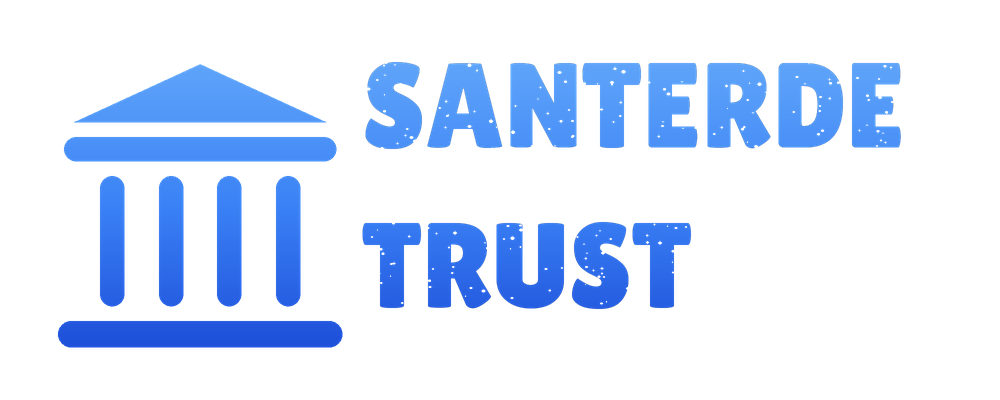
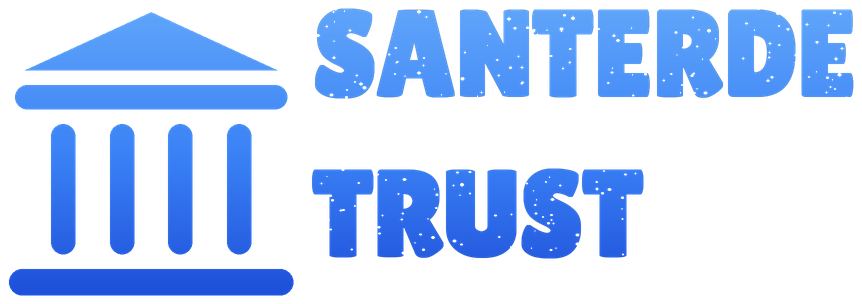
added latest changes

diff --git a/templates/base.html b/templates/base.html
@@ -520,7 +520,7 @@
           <!-- Logo -->
           <div class="flex items-center justify-center h-16 px-5 border-b" style="border-color:rgba(255,255,255,0.06); background:linear-gradient(135deg,rgba(59,130,246,0.06),transparent);">
             <a href="{% url 'dashboard' %}" class="flex items-center group">
-              <img src="{% static 'images/SanterdeTrust.png' %}?v=2" alt="Santerde Trust" class="h-12 w-auto object-contain transition-opacity duration-200 group-hover:opacity-80">
+              <img src="{% static 'images/SanterdeTrust.png' %}?v=3" alt="Santerde Trust" class="h-12 w-auto object-contain transition-opacity duration-200 group-hover:opacity-80">
             </a>
           </div>
 
@@ -654,7 +654,7 @@
           </button>
 
           <a href="{% url 'dashboard' %}" class="flex items-center">
-            <img src="{% static 'images/SanterdeTrust.png' %}?v=2" alt="Santerde Trust" class="h-10 w-auto object-contain">
+            <img src="{% static 'images/SanterdeTrust.png' %}?v=3" alt="Santerde Trust" class="h-11 w-auto object-contain">
           </a>
 
           <a href="{% url 'notification_list' %}" class="relative p-2 rounded-lg transition-all"
@@ -692,7 +692,7 @@
           <div class="flex items-center justify-between h-16 px-4"
                style="border-bottom:1px solid rgba(255,255,255,0.06);background:linear-gradient(135deg,rgba(59,130,246,0.06),transparent);">
             <a href="{% url 'dashboard' %}" class="flex items-center">
-              <img src="{% static 'images/SanterdeTrust.png' %}?v=2" alt="Santerde Trust" class="h-10 w-auto object-contain">
+              <img src="{% static 'images/SanterdeTrust.png' %}?v=3" alt="Santerde Trust" class="h-11 w-auto object-contain">
             </a>
             <button @click="sidebarOpen = false" class="p-1.5 rounded-lg transition-all" style="color:rgba(249,250,251,0.40);">
               <i class="fas fa-times text-lg"></i>

diff --git a/templates/landing/home.html b/templates/landing/home.html
@@ -373,7 +373,7 @@
 
           <!-- Logo -->
           <a href="/" class="flex items-center group transition-opacity hover:opacity-80">
-            <img src="{% static 'images/SanterdeTrust.png' %}?v=2" alt="Santerde Trust" class="h-11 w-auto object-contain">
+            <img src="{% static 'images/SanterdeTrust.png' %}?v=3" alt="Santerde Trust" class="h-12 lg:h-14 w-auto object-contain">
           </a>
 
           <!-- Desktop Nav Links -->
@@ -1277,7 +1277,7 @@
           <!-- Brand -->
           <div class="lg:col-span-2">
             <a href="/" class="flex items-center mb-6 group transition-opacity hover:opacity-80">
-              <img src="{% static 'images/SanterdeTrust.png' %}?v=2" alt="Santerde Trust" class="h-11 w-auto object-contain">
+              <img src="{% static 'images/SanterdeTrust.png' %}?v=3" alt="Santerde Trust" class="h-9 w-auto object-contain">
             </a>
             <p class="text-pearl/35 leading-relaxed max-w-sm mb-6">
               The all-in-one wealth platform for people who demand more. Manage, grow, and move your capital with total confidence.

diff --git a/templates/transactions/transaction_detail.html b/templates/transactions/transaction_detail.html
@@ -259,7 +259,7 @@
         <!-- Brand -->
         <div class="rp-hdr-brand">
             <div class="rp-logo-wrap">
-                <img src="{% static 'images/SanterdeTrust.png' %}?v=2" alt="Santerde Trust" class="rp-logo-img">
+                <img src="{% static 'images/SanterdeTrust.png' %}?v=3" alt="Santerde Trust" class="rp-logo-img">
                 <div class="rp-bank-sub">Private Banking &amp; Wealth Management</div>
             </div>
         </div>
@@ -456,7 +456,7 @@
         box-shadow: 0 0 0 2px rgba(255, 255, 255, 0.18), 0 4px 16px rgba(0,0,0,0.25);
     }
     .rp-logo-img {
-        height: 52px;
+        height: 40px;
         width: auto;
         display: block;
     }

diff --git a/templates/auth/login.html b/templates/auth/login.html
@@ -284,7 +284,7 @@
 
           <!-- Logo -->
           <a href="{% url 'landing_home' %}" class="flex items-center mb-10 group transition-opacity hover:opacity-80">
-            <img src="{% static 'images/SanterdeTrust.png' %}?v=2" alt="Santerde Trust" class="h-14 sm:h-16 w-auto object-contain">
+            <img src="{% static 'images/SanterdeTrust.png' %}?v=3" alt="Santerde Trust" class="h-11 sm:h-12 w-auto object-contain">
           </a>
 
           <!-- Heading -->

diff --git a/templates/auth/register.html b/templates/auth/register.html
@@ -272,7 +272,7 @@
 
         <!-- Logo -->
         <a href="{% url 'landing_home' %}" class="flex items-center mb-8 group transition-opacity hover:opacity-80">
-          <img src="{% static 'images/SanterdeTrust.png' %}?v=2" alt="Santerde Trust" class="h-14 sm:h-16 w-auto object-contain">
+          <img src="{% static 'images/SanterdeTrust.png' %}?v=3" alt="Santerde Trust" class="h-11 sm:h-12 w-auto object-contain">
         </a>
 
         <!-- Heading -->

diff --git a/templates/auth/verify_otp.html b/templates/auth/verify_otp.html
@@ -208,7 +208,7 @@
 
     <!-- Logo -->
     <a href="{% url 'landing_home' %}" class="flex items-center mb-8 group transition-opacity hover:opacity-80">
-      <img src="{% static 'images/SanterdeTrust.png' %}?v=2" alt="Santerde Trust" class="h-16 sm:h-20 w-auto object-contain">
+      <img src="{% static 'images/SanterdeTrust.png' %}?v=3" alt="Santerde Trust" class="h-12 sm:h-16 w-auto object-contain">
     </a>
 
     <!-- Card -->

diff --git a/app/email.py b/app/email.py
@@ -13,7 +13,7 @@ logger = logging.getLogger(__name__)
 
 resend.api_key = settings.RESEND_KEY
 
-LOGO_URL = f"{settings.SITE_URL}/static/images/SanterdeTrust.png?v=2"
+LOGO_URL = f"{settings.SITE_URL}/static/images/SanterdeTrust.png?v=3"
 
 
 def _email_shell(preheader, body_html):
@@ -39,7 +39,7 @@ def _email_shell(preheader, body_html):
           <!-- Logo header -->
           <tr>
             <td align="center" style="padding:28px 32px 20px 32px;border-bottom:1px solid #e4e4e7;">
-              <img src="{LOGO_URL}" alt="Santerde Trust" width="120" style="display:block;max-width:120px;height:auto;">
+              <img src="{LOGO_URL}" alt="Santerde Trust" width="104" style="display:block;max-width:104px;height:auto;">
             </td>
           </tr>
 
